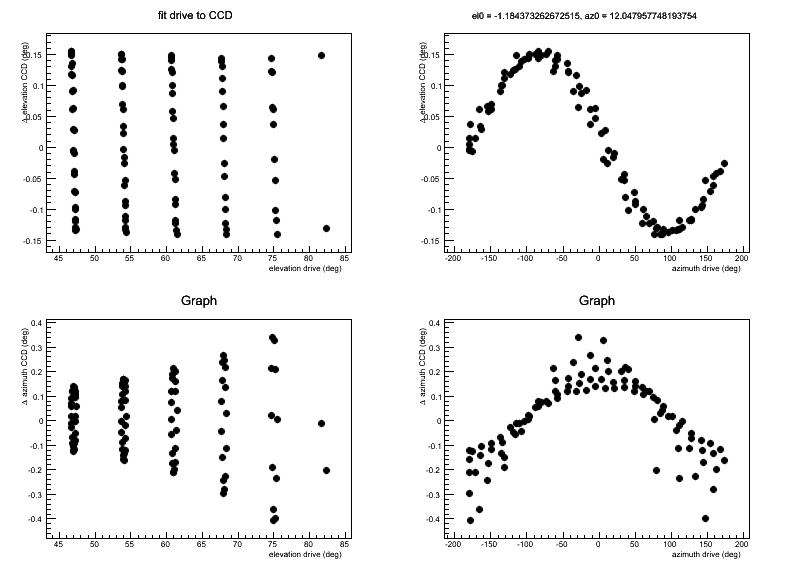
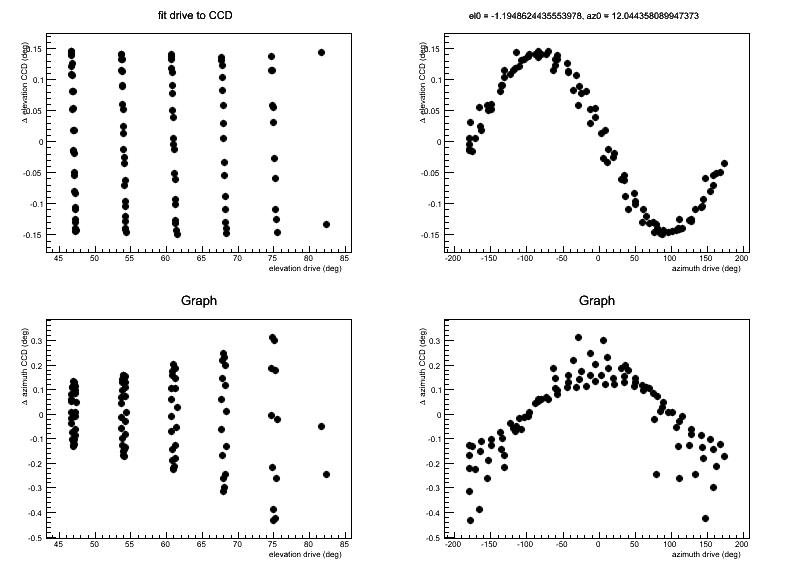
winkelabstand

diff --git a/341/fitC2D4.C b/341/fitC2D4.C
@@ -14,7 +14,7 @@ Double_t funcEl(Double_t el,Double_t az,Double_t az0,Double_t el0,Double_t az1, 
   el1 = el1*f;
   double temp1 = cos(az0)*cos(el0)-sqrt(pow(cos(az0)*cos(el0),2)+pow(sin(el0),2)-pow(sin(el),2));
   double temp2 = sin(el0)+sin(el);
-  return 2*atan(temp1/temp2)/f-el1;
+  return (2*atan(temp1/temp2)-el1)/f;
 }
 
 Double_t funcAz(Double_t el,Double_t az,Double_t az0,Double_t el0,Double_t az1, Double_t el1){
@@ -22,17 +22,20 @@ Double_t funcAz(Double_t el,Double_t az,Double_t az0,Double_t el0,Double_t az1, 
   el = el*f;
   az0 = az0*f;
   el0 = el0*f;
+  az1 = az1*f;
+  el1 = el1*f;
   double temp1 = cos(az0)*cos(el0)-sqrt(pow(cos(az0)*cos(el0),2)+pow(sin(el0),2)-pow(sin(el),2));
   double temp2 = sin(el0)+sin(el);
-  el = 2*atan(temp1/temp2)+el1;
+  el = 2*atan(temp1/temp2)-el1;
   double X = cos(az)*(cos(el)*cos(az0)*cos(el0)-sin(el)*sin(el0))+sin(az)*sin(az0)*cos(el0);
   double Y = -sin(az)*(cos(el)*cos(az0)*cos(el0)-sin(el)*sin(el0))+cos(az)*sin(az0)*cos(el0);
-  return atan2(-Y,X)/f-az1;
+  return (atan2(-Y,X)-az1)/f;
 }
 
 //funtion to minimize (chisq)
 Double_t chi(Double_t az0, Double_t el0, Double_t az1, Double_t el1){
   Double_t result=0;
+  Double_t temp3=0;
   TFile *file= TFile::Open("ntuple2nt_v12.root");
   TNtuple*nt = (TNtuple*)file->Get("run341_ccd3_tpoint_0_00_nt_ntuple");
   Int_t N = nt->GetEntries();
@@ -46,21 +49,28 @@ Double_t chi(Double_t az0, Double_t el0, Double_t az1, Double_t el1){
     Double_t az = a[2];
     Double_t el = a[3];
     if( eld < cutEl ){
-      Double_t del = funcEl(el,az,az0,el0,az1,el1)-eld;
+      Double_t del = funcEl(el,az,az0,el0,az1,el1);
       if (del < -180){
 	del+=360;
       }
       if (del > 180){
 	del-=360;
       }
-      Double_t daz = funcAz(el,az,az0,el0,az1,el1)-azd;
+      Double_t daz = funcAz(el,az,az0,el0,az1,el1);
       if (daz < -180){
 	daz+=360;
       }
       if (daz > 180){
 	daz-=360;
       }
-      result+=pow(del,2)+pow(daz,2);
+      temp3=sin(eld*f)*sin(del*f)+cos(eld*f)*cos(del*f)*cos((azd-daz)*f);
+      if (fabs(temp3)>1){
+	temp3=0;
+      }
+      else{
+	temp3=acos(temp3);
+      }
+      result+=pow(temp3,2);
     }
   }
   file->Close();
@@ -131,8 +141,11 @@ void fitC2D4(){
   double el0 = minimizer->GetParameter(1);
   double az1 = minimizer->GetParameter(2);
   double el1 = minimizer->GetParameter(3);
-  //double az0 = 12.1;
-  //double el0 = -1;
+  // double az0 = 12.1633;
+  // double el0 = -1.11933;
+  // double az1 = -0.21834;
+  // double el1 = 0.0369223;
+
   double minimum = chi(az0,el0,az1,el1);
   std::cout<<"az0 = "<<az0<<std::endl;
   std::cout<<"el0 = "<<el0<<std::endl;
@@ -191,7 +204,7 @@ void fitC2D4(){
     chisq+=pow(del_vec[i],2)+pow(daz_vec[i],2);
   }
   std::cout<<"chisqtest = "<<chisq<<std::endl;
-  std::cout<<"errorbars = "<<sqrt(chisq/(N-4))<<std::endl;
+  std::cout<<"errorbars = "<<sqrt(chisq/(N-2))<<std::endl;
   //plot
   TCanvas* can = new TCanvas("plots","Plots",0,0,800,600);
   can->Divide(2,2);

diff --git a/341/fitD2C4.C b/341/fitD2C4.C
@@ -35,6 +35,7 @@ Double_t funcAz(Double_t el,Double_t az,Double_t az0,Double_t el0,Double_t az1, 
 //funtion to minimize (chisq)
 Double_t chi(Double_t az0, Double_t el0,Double_t az1, Double_t el1){
   Double_t result=0;
+  Double_t temp3 = 0;
   TFile *file = TFile::Open("ntuple2nt_v12.root");
   TNtuple*nt = (TNtuple*)file->Get("run341_ccd3_tpoint_0_00_nt_ntuple");
   Int_t N = nt->GetEntries();
@@ -47,25 +48,35 @@ Double_t chi(Double_t az0, Double_t el0,Double_t az1, Double_t el1){
     Double_t eld = a[1];
     Double_t az = a[2];
     Double_t el = a[3];
-    Double_t del = funcEl(eld,azd,az0,el0,az1,el1)-el;
+    Double_t del = funcEl(eld,azd,az0,el0,az1,el1);
     if (del < -180){
       del+=360;
     }
     if (del > 180){
       del-=360;
     }
-    Double_t daz = funcAz(eld,azd,az0,el0,az1,el1)-az;
+    Double_t daz = funcAz(eld,azd,az0,el0,az1,el1);
     if (daz < -180){
       daz+=360;
     }
     if (daz > 180){
       daz-=360;
     }
-    result+=pow(del,2)+pow(daz,2);
+    temp3=sin(el*f)*sin(del*f)+cos(el*f)*cos(del*f)*cos((az-daz)*f);
+    if (fabs(temp3>=1)){
+      temp3=0;
+    }
+    else{
+      temp3=acos(temp3);
+    }
+    //std::cout<<temp3;
+    result+=pow(temp3,2);
   }
+  //std::cout<<result<<std::endl;
   file->Close();
   return result;
 }
+
 
 //for minimization
 void minuitFunction(int& nDim, double* gout, double& result, double par[], int flg) {

diff --git a/341/fitD2C.C b/341/fitD2C.C
@@ -36,6 +36,7 @@ Double_t funcElT(Double_t el,Double_t az,Double_t az0,Double_t el0){
 //funtion to minimize (chisq)
 Double_t chi(Double_t az0, Double_t el0){
   Double_t result=0;
+  Double_t temp3=0;
   TFile *file = TFile::Open("ntuple2nt_v12.root");
   TNtuple*nt = (TNtuple*)file->Get("run341_ccd3_tpoint_0_00_nt_ntuple");
   Int_t N = nt->GetEntries();
@@ -48,22 +49,31 @@ Double_t chi(Double_t az0, Double_t el0){
     Double_t eld = a[1];
     Double_t az = a[2];
     Double_t el = a[3];
-    Double_t del = funcEl(eld,azd,az0,el0)-el;
+    Double_t del = funcEl(eld,azd,az0,el0);
     if (del < -180){
       del+=360;
     }
     if (del > 180){
       del-=360;
     }
-    Double_t daz = funcAz(eld,azd,az0,el0)-az;
+    Double_t daz = funcAz(eld,azd,az0,el0);
     if (daz < -180){
       daz+=360;
     }
     if (daz > 180){
       daz-=360;
     }
-    result+=pow(del,2)+pow(daz,2);
+    temp3=sin(el*f)*sin(del*f)+cos(el*f)*cos(del*f)*cos((az-daz)*f);
+    if (fabs(temp3>=1)){
+      temp3=0;
+    }
+    else{
+      temp3=acos(temp3);
+    }
+    //std::cout<<temp3;
+    result+=pow(temp3,2);
   }
+  //std::cout<<result<<std::endl;
   file->Close();
   return result;
 }

diff --git a/341/fitC2D.C b/341/fitC2D.C
@@ -31,6 +31,8 @@ Double_t funcAz(Double_t el,Double_t az,Double_t az0,Double_t el0){
 //funtion to minimize (chisq)
 Double_t chi(Double_t az0, Double_t el0){
   Double_t result=0;
+  Double_t temp3=0;
+  Double_t temp4=0; 
   TFile *file= TFile::Open("ntuple2nt_v12.root");
   TNtuple*nt = (TNtuple*)file->Get("run341_ccd3_tpoint_0_00_nt_ntuple");
   Int_t N = nt->GetEntries();
@@ -44,21 +46,29 @@ Double_t chi(Double_t az0, Double_t el0){
     Double_t az = a[2];
     Double_t el = a[3];
     if( eld < cutEl ){
-      Double_t del = funcEl(el,az,az0,el0)-eld;
+      Double_t del = funcEl(el,az,az0,el0);
       if (del < -180){
 	del+=360;
       }
       if (del > 180){
 	del-=360;
       }
-      Double_t daz = funcAz(el,az,az0,el0)-azd;
+      //std::cout<<del;
+      Double_t daz = funcAz(el,az,az0,el0);
       if (daz < -180){
 	daz+=360;
       }
       if (daz > 180){
 	daz-=360;
       }
-      result+=pow(del,2)+pow(daz,2);
+      temp3=sin(eld*f)*sin(del*f)+cos(eld*f)*cos(del*f)*cos((azd-daz)*f);
+      if (fabs(temp3)>1){
+	temp3=0;
+      }
+      else{
+	temp3=acos(temp3);
+      }
+      result+=pow(temp3,2);
     }
   }
   file->Close();
